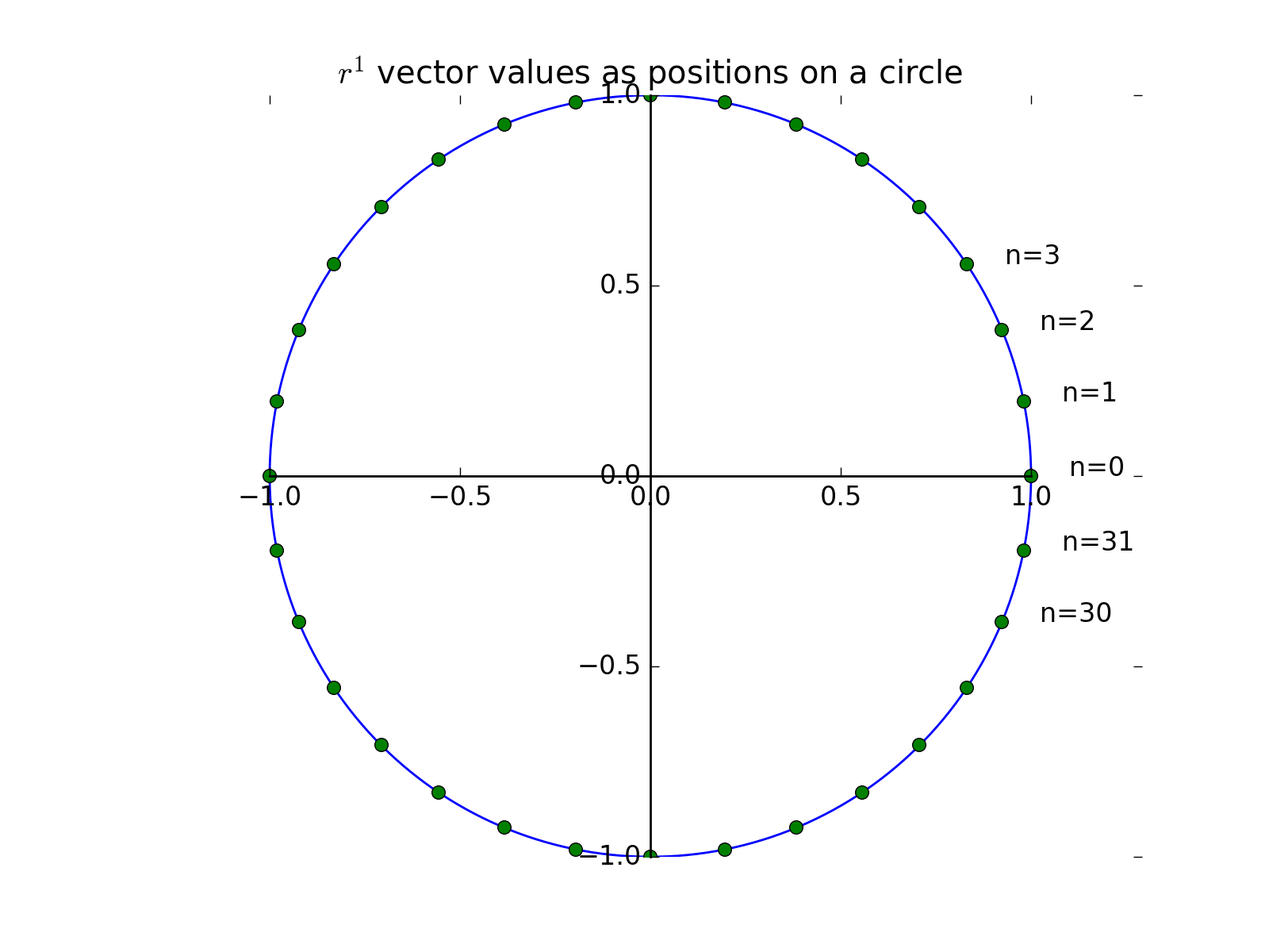
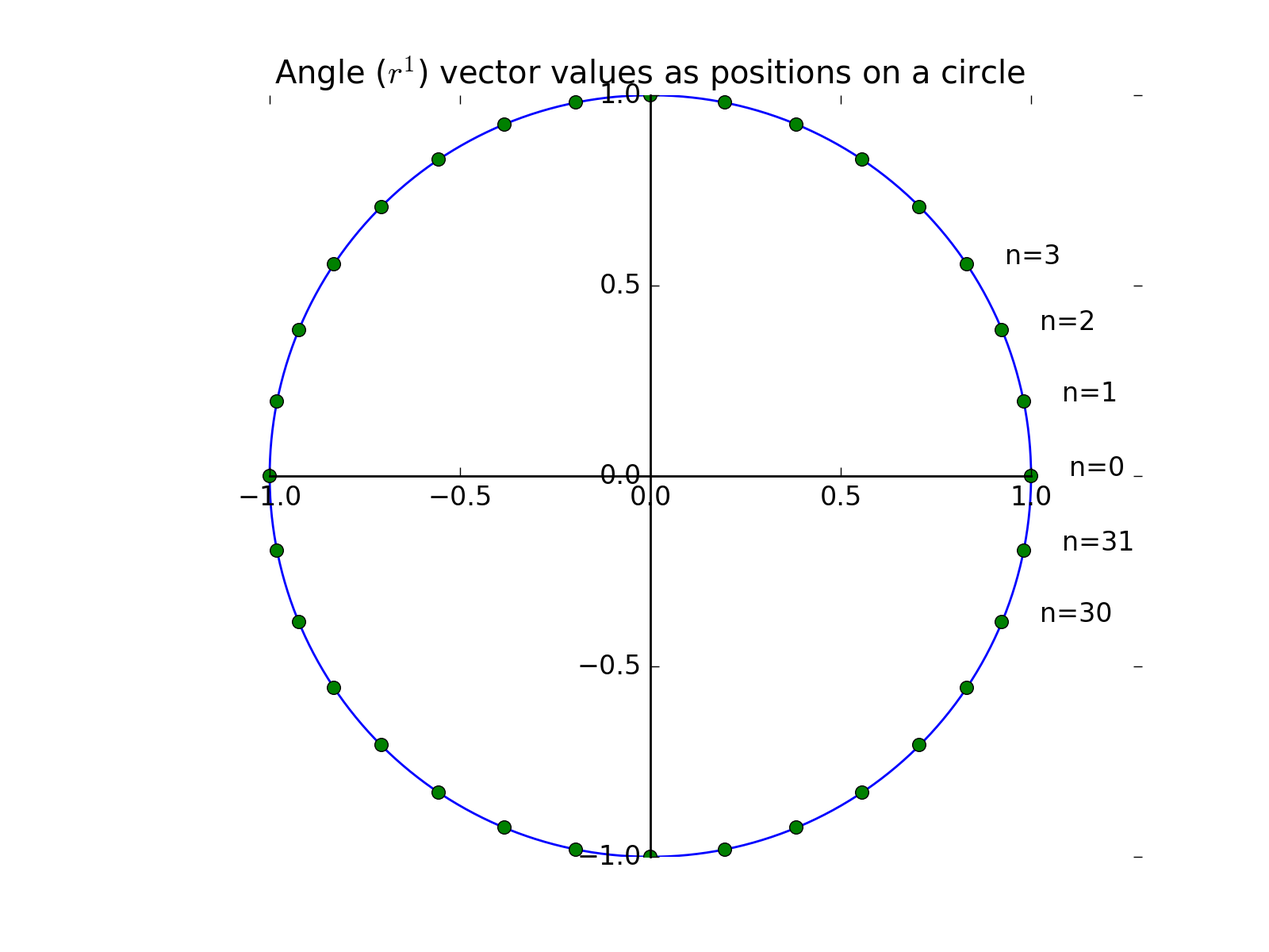
Update documentation

Changed region(s): [[0.2188, 0.0617, 0.8125, 0.0925]]

diff --git a/searchindex.js b/searchindex.js
@@ -1,1 +1,1 @@
-Search.setIndex({envversion:46,filenames:["README","angle_sum","fourier_basis","fourier_intro","fourier_no_ei","fourier_no_ei_orig","index","notation","on_vectors","simple_complex","some_sums","sums_of_cosines"],objects:{},objnames:{},objtypes:{},terms:{"0000j":5,"01j":5,"02j":5,"06j":5,"0755j":[3,4,5],"08j":5,"12j":[5,9],"13j":5,"14j":5,"1596j":[3,4,5],"162j":[3,4,5],"1_n":[3,4],"2268j":[3,4,5],"2329j":[3,4,5],"2593j":[3,4],"28j":5,"2_n":[3,4],"31j":5,"33j":5,"3712j":[3,4,5],"4024j":[3,4,5],"43j":5,"4873j":[3,4,5],"4889j":[3,4,5],"4th":8,"5287j":[3,4,5],"53851287343e":[],"54j":5,"57j":5,"58j":5,"6169j":[3,4,5],"64j":5,"67j":5,"69j":5,"70356074953j":[3,4],"7036j":[3,4,5],"71j":5,"73j":5,"7749j":[3,4,5],"778j":[3,4],"8079j":[3,4,5],"81j":5,"83j":5,"8433j":[3,4,5],"89264601266e":[],"__future__":[3,4,5,11],"case":[2,3,4,5,10,11],"final":[2,5],"float":[3,4],"function":[2,3,4,5],"import":[2,3,4,5,11],"new":[3,4,5,8],"return":[3,4,5,11],"true":[2,3,4,5],"while":5,about:[2,3,4,5],abov:[2,5,11],academi:5,accept:5,across:[],action:5,actual_cos_sum:11,actual_sin_sum:11,add:[3,4],addit:[],after:[2,5],again:5,against:5,aha:[3,4,5],algebra:[],algorithm:[3,4,5],alias:[2,5],allclos:[2,5,11],allow:[3,4,5],almost:[3,4,5,11],along:[3,4,5],alreadi:[3,4,5],also:[1,3,4,5],alwai:[2,3,4,5],amount:5,amplitud:[],ani:[2,3,4,5,7,8],annot:[],anoth:[1,3,4,5],answer:[3,4,11],anticlockwis:1,appar:[2,3,4,5],appli:[2,3,4,5,11],approx:[],arang:[2,3,4,5,11],arbelo:11,arcco:[3,4],arithmet:[2,5,11],around:[1,3,4,5],arrai:[2,3,4,5],arrang:[],assert:[2,5],axi:[2,5],base:8,basic:[1,2,3,4,5,10,11],becaus:[1,2,3,4,5,8,11],becom:11,befor:[2,5],beta:[3,4],between:[1,2,3,4,5],bit:5,black:[2,5],both:[3,4,5,9,11],bottom:[2,5],bring:[],brush:[3,4,5],build:[2,3,4,5],c_0:5,c_1:5,c_2:[],c_3:[],c_cos_shift:5,c_sin_shift:5,c_unshift:5,cah:[3,4,5],calcul:[],call:[2,3,4,5],can:[1,2,3,4,5,7,8,10,11],cancel:[8,11],center:[2,5],center_row:[2,5],cheer:11,circl:[2,3,4,5],clear:11,clearer:5,clearli:5,close:[3,4],coeffici:[3,4,5],collect:0,column:[2,5],come:[3,4,5],common:[3,4,5],compat:[3,4,5],compil:2,complet:[2,3,4,5],complex_x:5,complex_x_again:5,complic:5,compon:[3,4,5],concentr:5,concept:[2,3,4,5],concern:5,confirm:[3,4],confus:[3,4,5],conjug:[2,3,4,5],consid:[2,3,4,5,8,9],constitut:[3,4],construct:[3,4],contain:[5,8],continu:[2,5,11],convent:9,convers:8,convert:[3,4,5],copi:5,correct:[2,5],correl:5,correspond:[],cos_dot:5,cos_g:5,cos_project:5,cos_x:5,cos_x_shift:5,could:[5,10],cours:[2,5],cover:11,current:11,custom:5,cycl:[],data:[],decim:[3,4,5],deep:[3,4],def:[5,11],defin:[],definit:[1,3,4,8],degre:1,denomin:[2,5],depend:[3,4,5],depth:5,deriv:11,detail:5,detect:5,dft_plot:[2,5],dftp:[2,5],dftsketch:5,diag:[2,5],differ:[2,5],difficult:[3,4,5],dimens:8,dimension:8,direct:11,directori:5,disappear:10,distanc:[3,4],divid:8,divis:[3,4,5,11],doe:5,don:[3,4,5],done:[3,4],download:5,drop:5,dtype:5,due:5,each:[2,3,4,5,11],easi:[3,4,5],edit:8,edu:[],effect:[2,5],engin:9,enterpris:[3,4,5],entir:[3,4,5],entri:[2,5],equal:[2,5,7],equat:[2,3,4,5],equival:5,euler:[3,4,5],evergreen:[],everi:5,everywher:[2,5],exactli:[2,5],exampl:[2,3,4,5,7,8,9,10],except:[2,5],expect:[3,4],explain:[3,4,5],explan:[3,4,5],explor:5,exponenti:[3,4,5],express:[2,3,4,5],fact:[2,3,4,5,11],fairli:[3,4,5],familiar:5,fast:[3,4,5],featur:[3,4,5],fig:[2,5],figsiz:[2,5],fill:[2,5],find:[3,4,5],finish:11,flip:[2,3,4,5],follow:[3,4,5,9,11],fontsiz:[2,5],footnot:[],form:[2,3,4,5,8],format:5,formula:[2,3,4,5,11],found:2,four:[5,10],fraction:[3,4],frequenc:[],fresh:5,from:[1,2,8,10,11],full_circl:[],full_i:[],full_x:[],further:[3,4,5],gca:[2,5],gener:[2,3,4,5,8],get:[1,2,3,4,5,11],gilbert:8,give:[1,2,3,4,5,8,11],given:[2,3,4,5],goe:[3,4,5],grai:5,graphic:5,grayscal:[2,5],greitzer:11,greitzner:11,grid:[2,5],half:[2,5],hand:[5,8],happen:[3,4,5],have:[1,2,3,4,5,8,10],hear:[2,3,4,5],heavi:[3,4,5],help:[],here:[2,3,4,5],hidden:[],highli:5,highlight:5,hire:[2,3,4,5],hold:[2,5],horizont:[2,5],http:[],hypotenus:8,idea:[3,4,5],ident:[2,5,10,11],ifft:[3,4,5],imag:[],imagin:[3,4,5],includ:[2,5],increas:[],index:[2,3,4,5],indic:[5,10],individu:[2,5],inform:5,instead:[2,5],integ:[2,5,11],interest:5,intuit:[3,4,5],involv:[3,4,5],isn:[3,4],iter:11,itself:[2,5,8],journei:[3,4],just:[2,5],kei:[3,4,5],khan:5,kind:[2,5],knapp:11,know:5,label:[3,4,5],last:11,later:[2,5,11],lead:[2,5],leav:5,left:[5,8,11],legend:[3,4,5],len:[2,4,5],length:1,less:[2,5],let:[1,2,3,4,5,8,9,11],light:5,like:[2,5],line:[1,2,5],linear:8,link:[3,4,5],linspac:[],list:10,logic:[2,3,4,5,9],look:[2,3,4,5],lower:[2,5],loyola:[],magazin:11,mai:[5,10],make:[3,4,5,8],mani:11,match:[2,5],math:[3,4,5],mathbf:[2,5],matplotlib:[2,3,4,5],mayb:5,mean:[2,3,4,5,7],michael:11,mid:5,might:[2,3,4,5],mind:5,minu:5,modul:5,moment:5,more:[],most:5,mostli:5,mpknapp:[],multipl:[],multipli:9,must:5,nearli:[],need:[3,4,5],neg:[2,5],next:[2,5],nkd:[],non:5,none:5,notat:[],note:[2,5],notic:[2,3,4,5],now:[2,3,4,5,9,11],numer:[],numpi:[2,3,4,5,11],nyquist:[2,5],observ:[3,4,5],obviou:[2,5,10],obvious:[],offset:5,often:9,one_cycl:[2,5],onli:[2,3,4,5,11],onto:5,opposit:[3,4,11],order:[8,11],origin:[1,3,4,5],orthogon:[2,5],other:[2,3,4,5,7],otherwis:5,our:[2,3,4,5,9],out:[3,4,5,11],output:[],over:[],packag:[3,4,5],page:[3,4,5,8,11],pair:[3,4,5],paper:[],particular:[3,4,5],pattern:[3,4,5],pdf:[2,3,4,5],peak:[2,5],pearson:5,peopl:[3,4,5],perfectli:5,person:[3,4,5],pictur:1,place:[3,4,5],plai:11,plot:[2,3,4,5],plot_cs_row:[2,5],plt:[2,3,4,5],png:[2,3,4,5],point:[5,8],posit:[2,5,11],power:[3,4,5],practic:5,precis:[2,3,4,5],predict:[3,4,5],predicted_cos_sum:11,predicted_sin_sum:11,present:5,previou:11,principl:5,print:[3,4,5,11],print_funct:[3,4,5,11],process:[3,4,5],progress:[2,5,11],proj_onto_c1:5,proj_onto_s1:5,proport:5,put:[3,4],pyplot:[2,3,4,5],pythagora:[3,4,5,8],python:[3,4,5,9],pythonagora:[],quietli:10,r_1:[],r_2:[],r_3:[],r_x:[],r_y:[],radian:[3,4],random:5,rang:[2,5],rather:[3,4,5],read:7,rearrang:11,reason:[5,11],recalcul:5,recast:[3,4,5],recommend:5,reconstruct:[],refer:[3,4,5],refresh:[],regardless:[2,5],rel:[2,5],relationship:[2,5],relev:5,remain:5,rememb:[1,2,3,4,5,9],rephras:5,replac:[],repres:[2,3,4,5],represent:5,respect:5,rest:5,result:[1,2,3,4,5,8],reveal:[3,4],rid:11,right:[5,8,11],role:5,root:[7,8],rotat:[1,3,4,5],round:[3,4],run:[3,4,5],s_1:5,s_2:[],s_3:[],safe:11,sai:[1,3,4,5,8,9,10],said:[3,4,5],same:[2,3,4,5,9,11],sampl:[],samuel:11,saw:[],scalar:[],scale:[],scale_arrai:[2,5],second:[9,11],section:5,see:[1,2,3,4,5,7,8],seen:[3,4,5],sequenc:[2,5,8],seri:[2,3,5,10,11],set:[],set_color:[],set_posit:[],set_printopt:[2,3,4,5],set_smart_bound:[],set_titl:[2,5],set_xlim:5,set_ylim:5,shape:5,share:[3,4,5],shift:[],show:[2,3,4,5],show_arrai:[2,5],shown:5,side:[8,11],sign:[2,3,4,5],similar:[3,4,5],simplic:5,simplifi:[3,4,5],sin:[2,3,4,5,11],sin_dot:5,sin_g:5,sin_project:5,situat:8,sketch:5,small_n:5,soh:[3,4,5],solv:[2,5,11],some:1,soon:[3,4,5],sort:[3,4,5],space:[3,4,5],spatial:[3,4,5],special:5,spine:[],sqrt:[3,4],squar:[2,5,7,8],standard:[3,4,5],step:11,strang:8,strength:[2,5],subplot:[2,5],subscript:[3,4,5,10],substitut:[3,4],success:5,summat:[],suppress:[2,3,4,5],suptitl:[2,5],symbol:10,symmetr:[2,5],t_1:5,t_k:[2,5],take:[2,5,7],talk:5,telescop:11,tell:[2,3,4,5],tempor:[3,4,5],term:[2,3,4,5,8,11],test:[5,10],than:[2,3,4,5],thei:[2,5,10],them:[3,4,5],themselv:[2,5],theorem:[],therefor:[1,2,3,4,5,9,11],thi:[1,2,3,4,5,8,10,11],thing:[0,2,3,4,5,7],think:[3,4,5],three:[7,8],through:[2,3,4,5,10],thu:[1,2,5],tight_layout:5,time:[3,4,5],titl:[2,5],to_4dp:5,toa:[3,4,5],took:[2,5],tool:[3,4,5],top:[2,5],transpos:[2,5],tri:[3,4,5],triangl:[1,8],trigonometri:[1,2,3,4,5],trough:[2,5],turn:[3,4,5],tutori:0,two:[],understand:5,unfortun:[3,4,5],unique_c:5,unique_ss:5,unit:[],unless:[2,5],unpack:5,unshift:[3,4,5],upco:4,valu:7,vari:5,variabl:5,variou:0,vec:[3,4],vec_c_1:[3,4],vec_c_2:[3,4],vec_c_3:[],vec_n:[3,4],vec_on:[3,4],vec_r_1:[3,4],vec_r_2:[3,4],vec_r_3:[],vec_s_1:[3,4],vec_s_2:[3,4],vec_s_3:[],vec_v:[3,4],vector:1,veri:[3,4,5],visual:5,vstack:5,w_again:5,wai:[3,4,5],want:[3,4,5],wave:[2,5],were:[3,4],what:[3,4,5],when:[2,3,4,5,8,10,11],where:[2,3,4,5,11],which:[3,4,5,10],white:[2,5],whole:[3,4,5],why:[],width:5,work:[3,4,5],would:5,write:[2,3,4,5,8,9,10,11],written:[2,5,9],www:[],x_1:[3,4],x_again:5,x_back:[3,4,5],x_c:5,x_c_real:5,x_real:5,xlabel:[3,4,5],xlim:5,xytext:[],ylabel:[3,4],you:[3,4,5,10],yourself:5,zero:[2,3,4,5]},titles:["Teaching repo","The angle sum rule","The Fourier basis","Fourier without the ei","Fourier without the ei","Fourier without the ei","Tutorials on imaging, computing and mathematics","Notation","Vectors and dot products","Refresher on complex numbers","Some algebra with summation","Sum of sines and cosines"],titleterms:{across:[3,4],actual:[3,4,5],addit:[8,10],algebra:10,all:5,amplitud:[3,4],angl:1,back:5,basi:[2,5],bring:[3,4],calcul:[3,4],check:11,code:[3,4,5],commut:8,complex:[5,9],comput:6,configur:[3,4,5],constant:[5,10],correspond:[3,4],cosin:[2,3,4,5,11],cycl:[3,4],data:2,defin:7,dft:[2,3,4,5],discret:[3,4,5],displai:[2,5],distribut:8,dot:[2,5,8],element:5,factor:[3,4],fft:[3,4,5],first:[3,4,5],fit:5,forward:5,fourier:[2,3,4,5],frequenc:[3,4],from:[3,4],hard:[3,4,5],how:[3,4,5],imag:6,imaginari:5,impli:7,input:5,insid:10,introduc:5,introduct:[3,4,5],invers:5,length:[2,3,4,5,8],librari:[2,3,4,5],load:[2,3,4,5],mathemat:[3,4,5,6],matric:[2,5],matrix:[2,5],membership:7,mirror:[2,5],more:10,multipl:8,multipli:10,notat:[3,4,7],number:[3,4,5,9],numer:11,output:[3,4],over:8,part:5,perpendicular:8,phase:[3,4,5],plai:[3,4],product:[2,5,8],project:5,proof:[1,2,5,11],properti:[2,5,8],read:10,real:5,reconstruct:[3,4],refresh:9,repo:0,rewrit:[2,3,4,5],row:[2,5],rule:1,sampl:[3,4],scalar:8,scale:[3,4,8],scrub:5,second:[3,4],set:7,shift:[3,4],signal:5,sine:[2,3,4,5,11],singl:5,sinusoid:[3,4],some:[2,3,4,5,10],start:[3,4,5],sum:[1,3,4,10,11],summat:10,symmetri:[2,5],teach:0,theorem:11,tradit:[3,4],transform:[3,4,5],tutori:6,two:8,unit:8,valu:[3,4,10],vector:[3,4,5,7,8],why:[3,4],without:[3,4,5]}})
+Search.setIndex({envversion:46,filenames:["README","angle_sum","fourier_basis","fourier_intro","fourier_no_ei","fourier_no_ei_orig","index","notation","on_vectors","simple_complex","some_sums","sums_of_cosines"],objects:{},objnames:{},objtypes:{},terms:{"0000j":5,"01j":5,"02j":5,"06j":5,"0755j":[3,4,5],"08j":5,"12j":[5,9],"13j":5,"14j":5,"1596j":[3,4,5],"162j":[3,4,5],"1_n":[3,4],"2268j":[3,4,5],"2329j":[3,4,5],"2593j":[3,4],"28j":5,"2_n":[3,4],"31j":5,"33j":5,"3712j":[3,4,5],"4024j":[3,4,5],"43j":5,"4873j":[3,4,5],"4889j":[3,4,5],"4th":8,"5287j":[3,4,5],"53851287343e":[],"54j":5,"57j":5,"58j":5,"6169j":[3,4,5],"64j":5,"67j":5,"69j":5,"70356074953j":[3,4],"7036j":[3,4,5],"71j":5,"73j":5,"7749j":[3,4,5],"778j":[3,4],"8079j":[3,4,5],"81j":5,"83j":5,"8433j":[3,4,5],"89264601266e":[],"__future__":[3,4,5,11],"case":[2,3,4,5,10,11],"final":[2,5],"float":[3,4],"function":[2,3,4,5],"import":[2,3,4,5,11],"new":[3,4,5,8],"return":[3,4,5,11],"true":[2,3,4,5],"while":5,about:[2,3,4,5],abov:[2,5,11],academi:5,accept:5,across:[],action:5,actual_cos_sum:11,actual_sin_sum:11,add:[3,4],addit:[],after:[2,5],again:5,against:5,aha:[3,4,5],algebra:[],algorithm:[3,4,5],alias:[2,5],allclos:[2,5,11],allow:[3,4,5],almost:[3,4,5,11],along:[3,4,5],alreadi:[3,4,5],also:[1,3,4,5],alwai:[2,3,4,5],amount:5,amplitud:[],ani:[2,3,4,5,7,8],annot:[],anoth:[1,3,4,5],answer:[3,4,11],anticlockwis:1,appar:[2,3,4,5],appli:[2,3,4,5,11],approx:[],arang:[2,3,4,5,11],arbelo:11,arcco:[3,4],arithmet:[2,5,11],around:[1,3,4,5],arrai:[2,3,4,5],arrang:[],assert:[2,5],axi:[2,5],base:8,basic:[1,2,3,4,5,10,11],becaus:[1,2,3,4,5,8,11],becom:11,befor:[2,5],beta:[3,4],between:[1,2,3,4,5],bit:5,black:[2,5],both:[3,4,5,9,11],bottom:[2,5],bring:[],brush:[3,4,5],build:[2,3,4,5],c_0:5,c_1:5,c_2:[],c_3:[],c_cos_shift:5,c_sin_shift:5,c_unshift:5,cah:[3,4,5],calcul:[],call:[2,3,4,5],can:[1,2,3,4,5,7,8,10,11],cancel:[8,11],center:[2,5],center_row:[2,5],cheer:11,circl:[2,3,4,5],clear:11,clearer:5,clearli:5,close:[3,4],coeffici:[3,4,5],collect:0,column:[2,5],come:[3,4,5],common:[3,4,5],compat:[3,4,5],compil:2,complet:[2,3,4,5],complex_x:5,complex_x_again:5,complic:5,compon:[3,4,5],concentr:5,concept:[2,3,4,5],concern:5,confirm:[3,4],confus:[3,4,5],conjug:[2,3,4,5],consid:[2,3,4,5,8,9],constitut:[3,4],construct:[3,4],contain:[5,8],continu:[2,5,11],convent:9,convers:8,convert:[3,4,5],copi:5,correct:[2,5],correl:5,correspond:[],cos_dot:5,cos_g:5,cos_project:5,cos_x:5,cos_x_shift:5,could:[5,10],cours:[2,5],cover:11,current:11,custom:5,cycl:[],data:[],decim:[3,4,5],deep:[3,4],def:[5,11],defin:[],definit:[1,3,4,8],degre:1,denomin:[2,5],depend:[3,4,5],depth:5,deriv:11,detail:5,detect:5,dft_plot:[2,5],dftp:[2,5],dftsketch:5,diag:[2,5],differ:[2,5],difficult:[3,4,5],dimens:8,dimension:8,direct:11,directori:5,disappear:10,distanc:[3,4],divid:8,divis:[3,4,5,11],doe:5,don:[3,4,5],done:[3,4],download:5,drop:5,dtype:5,due:5,each:[2,3,4,5,11],easi:[3,4,5],edit:8,edu:[],effect:[2,5],engin:9,enterpris:[3,4,5],entir:[3,4,5],entri:[2,5],equal:[2,5,7],equat:[2,3,4,5],equival:5,euler:[3,4,5],evergreen:[],everi:5,everywher:[2,5],exactli:[2,5],exampl:[2,3,4,5,7,8,9,10],except:[2,5],expect:[3,4],explain:[3,4,5],explan:[3,4,5],explor:5,exponenti:[3,4,5],express:[2,3,4,5],fact:[2,3,4,5,11],fairli:[3,4,5],familiar:5,fast:[3,4,5],featur:[3,4,5],fig:[2,5],figsiz:[2,5],fill:[2,5],find:[3,4,5],finish:11,flip:[2,3,4,5],follow:[3,4,5,9,11],fontsiz:[2,5],footnot:[],form:[2,3,4,5,8],format:5,formula:[2,3,4,5,11],found:2,four:[5,10],fraction:[3,4],frequenc:[],fresh:5,from:[1,2,10,11],full_circl:[],full_i:[],full_x:[],further:[3,4,5],gca:[2,5],gener:[2,3,4,5,8],get:[1,2,3,4,5,11],gilbert:8,give:[1,2,3,4,5,8,11],given:[2,3,4,5],goe:[3,4,5],grai:5,graphic:5,grayscal:[2,5],greitzer:11,greitzner:11,grid:[2,5],half:[2,5],hand:[5,8],happen:[3,4,5],have:[1,2,3,4,5,8,10],hear:[2,3,4,5],heavi:[3,4,5],help:[],here:[2,3,4,5],hidden:[],highli:5,highlight:5,hire:[2,3,4,5],hold:[2,5],horizont:[2,5],http:[],hypotenus:8,idea:[3,4,5],ident:[2,5,10,11],ifft:[3,4,5],imag:[],imagin:[3,4,5],includ:[2,5],increas:[],index:[2,3,4,5],indic:[5,10],individu:[2,5],inform:5,instead:[2,5],integ:[2,5,11],interest:5,intuit:[3,4,5],involv:[3,4,5],isn:[3,4],iter:11,itself:[2,5,8],journei:[3,4],just:[2,5],kei:[3,4,5],khan:5,kind:[2,5],knapp:11,know:5,label:[3,4,5],last:11,later:[2,5,11],lead:[2,5],leav:5,left:[5,8,11],legend:[3,4,5],len:[2,4,5],length:1,less:[2,5],let:[1,2,3,4,5,8,9,11],light:5,like:[2,5],line:[1,2,5],linear:8,link:[3,4,5],linspac:[],list:10,logic:[2,3,4,5,9],look:[2,3,4,5],lower:[2,5],loyola:[],magazin:11,mai:[5,10],make:[3,4,5,8],mani:11,match:[2,5],math:[3,4,5],mathbf:[2,5],matplotlib:[2,3,4,5],mayb:5,mean:[2,3,4,5,7],michael:11,mid:5,might:[2,3,4,5],mind:5,minu:5,modul:5,moment:5,more:[],most:5,mostli:5,mpknapp:[],multipl:[],multipli:9,must:5,nearli:[],need:[3,4,5],neg:[2,5],next:[2,5],nkd:[],non:5,none:5,notat:[],note:[2,5],notic:[2,3,4,5],now:[2,3,4,5,9,11],numer:[],numpi:[2,3,4,5,11],nyquist:[2,5],observ:[3,4,5],obviou:[2,5,10],obvious:[],offset:5,often:9,one_cycl:[2,5],onli:[2,3,4,5,11],onto:5,opposit:[3,4,11],order:[8,11],origin:[1,3,4,5],orthogon:[2,5],other:[2,3,4,5,7],otherwis:5,our:[2,3,4,5,9],out:[3,4,5,11],output:[],over:[],packag:[3,4,5],page:[3,4,5,8,11],pair:[3,4,5],paper:[],particular:[3,4,5],pattern:[3,4,5],pdf:[2,3,4,5],peak:[2,5],pearson:5,peopl:[3,4,5],perfectli:5,person:[3,4,5],pictur:1,place:[3,4,5],plai:11,plot:[2,3,4,5],plot_cs_row:[2,5],plt:[2,3,4,5],png:[2,3,4,5],point:[5,8],posit:[2,5,11],power:[3,4,5],practic:5,precis:[2,3,4,5],predict:[3,4,5],predicted_cos_sum:11,predicted_sin_sum:11,present:5,previou:11,principl:5,print:[3,4,5,11],print_funct:[3,4,5,11],process:[3,4,5],progress:[2,5,11],proj_onto_c1:5,proj_onto_s1:5,proport:5,put:[3,4],pyplot:[2,3,4,5],pythagora:[3,4,5,8],python:[3,4,5,9],pythonagora:[],quietli:10,r_1:[],r_2:[],r_3:[],r_x:[],r_y:[],radian:[3,4],random:5,rang:[2,5],rather:[3,4,5],read:7,rearrang:11,reason:[5,11],recalcul:5,recast:[3,4,5],recommend:5,reconstruct:[],refer:[3,4,5],refresh:[],regardless:[2,5],rel:[2,5],relationship:[2,5],relev:5,remain:5,rememb:[1,2,3,4,5,9],rephras:5,replac:[],repres:[2,3,4,5],represent:5,respect:5,rest:5,result:[1,2,3,4,5,8],reveal:[3,4],rid:11,right:[5,8,11],role:5,root:[7,8],rotat:[1,3,4,5],round:[3,4],run:[3,4,5],s_1:5,s_2:[],s_3:[],safe:11,sai:[1,3,4,5,8,9,10],said:[3,4,5],same:[2,3,4,5,9,11],sampl:[],samuel:11,saw:[],scalar:[],scale:[],scale_arrai:[2,5],second:[9,11],section:5,see:[1,2,3,4,5,7,8],seen:[3,4,5],sequenc:[2,5,8],seri:[2,3,5,10,11],set:[],set_color:[],set_posit:[],set_printopt:[2,3,4,5],set_smart_bound:[],set_titl:[2,5],set_xlim:5,set_ylim:5,shape:5,share:[3,4,5],shift:[],show:[2,3,4,5],show_arrai:[2,5],shown:5,side:[8,11],sign:[2,3,4,5],similar:[3,4,5],simplic:5,simplifi:[3,4,5],sin:[2,3,4,5,11],sin_dot:5,sin_g:5,sin_project:5,situat:8,sketch:5,small_n:5,soh:[3,4,5],solv:[2,5,11],some:1,soon:[3,4,5],sort:[3,4,5],space:[3,4,5],spatial:[3,4,5],special:5,spine:[],sqrt:[3,4],squar:[2,5,7,8],standard:[3,4,5],step:11,strang:8,strength:[2,5],subplot:[2,5],subscript:[3,4,5,10],substitut:[3,4],success:5,summat:[],suppress:[2,3,4,5],suptitl:[2,5],symbol:10,symmetr:[2,5],t_1:5,t_k:[2,5],take:[2,5,7],talk:5,telescop:11,tell:[2,3,4,5],tempor:[3,4,5],term:[2,3,4,5,8,11],test:[5,10],than:[2,3,4,5],thei:[2,5,10],them:[3,4,5],themselv:[2,5],theorem:[],therefor:[1,2,3,4,5,9,11],thi:[1,2,3,4,5,8,10,11],thing:[0,2,3,4,5,7],think:[3,4,5],three:[7,8],through:[2,3,4,5,10],thu:[1,2,5],tight_layout:5,time:[3,4,5],titl:[2,5],to_4dp:5,toa:[3,4,5],took:[2,5],tool:[3,4,5],top:[2,5],transpos:[2,5],tri:[3,4,5],triangl:[1,8],trigonometri:[1,2,3,4,5],trough:[2,5],turn:[3,4,5],tutori:0,two:[],understand:5,unfortun:[3,4,5],unique_c:5,unique_ss:5,unit:[],unless:[2,5],unpack:5,unshift:[3,4,5],upco:4,valu:7,vari:5,variabl:5,variou:0,vec:[3,4],vec_c_1:[3,4],vec_c_2:[3,4],vec_c_3:[],vec_n:[3,4],vec_on:[3,4],vec_r_1:[3,4],vec_r_2:[3,4],vec_r_3:[],vec_s_1:[3,4],vec_s_2:[3,4],vec_s_3:[],vec_v:[3,4],vector:1,veri:[3,4,5],visual:5,vstack:5,w_again:5,wai:[3,4,5],want:[3,4,5],wave:[2,5],were:[3,4],what:[3,4,5],when:[2,3,4,5,8,10,11],where:[2,3,4,5,11],which:[3,4,5,10],white:[2,5],whole:[3,5],why:[],width:5,work:[3,4,5],would:5,write:[2,3,4,5,8,9,10,11],written:[2,5,9],www:[],x_1:[3,4],x_again:5,x_back:[3,4,5],x_c:5,x_c_real:5,x_real:5,xlabel:[3,4,5],xlim:5,xytext:[],ylabel:[3,4],you:[3,4,5,10],yourself:5,zero:[2,3,4,5]},titles:["Teaching repo","The angle sum rule","The Fourier basis","Fourier without the ei","Fourier without the ei","Fourier without the ei","Tutorials on imaging, computing and mathematics","Notation","Vectors and dot products","Refresher on complex numbers","Some algebra with summation","Sum of sines and cosines"],titleterms:{across:[3,4],actual:[3,4,5],addit:[8,10],algebra:10,all:5,amplitud:[3,4],angl:1,back:5,basi:[2,5],bring:[3,4],calcul:[3,4],check:11,code:[3,4,5],commut:8,complex:[5,9],comput:6,configur:[3,4,5],constant:[5,10],correspond:[3,4],cosin:[2,3,4,5,11],cycl:[3,4],data:2,defin:7,dft:[2,3,4,5],discret:[3,4,5],displai:[2,5],distribut:8,dot:[2,5,8],element:5,factor:[3,4],fft:[3,4,5],first:[3,4,5],fit:5,forward:5,fourier:[2,3,4,5],frequenc:[3,4],from:[3,4],hard:[3,4,5],how:[3,4,5],imag:6,imaginari:5,impli:7,input:5,insid:10,introduc:5,introduct:[3,4,5],invers:5,length:[2,3,5,8],librari:[2,3,4,5],load:[2,3,4,5],mathemat:[3,4,5,6],matric:[2,5],matrix:[2,5],membership:7,mirror:[2,5],more:10,multipl:8,multipli:10,notat:[3,4,7],number:[3,4,5,9],numer:11,output:[3,4],over:8,part:5,perpendicular:8,phase:[3,4,5],plai:[3,4],product:[2,5,8],project:5,proof:[1,2,5,11],properti:[2,5,8],read:10,real:5,reconstruct:[3,4],refresh:9,repo:0,rewrit:[2,3,4,5],row:[2,5],rule:1,sampl:[3,4],scalar:8,scale:[3,4,8],scrub:5,second:[3,4],set:7,shift:[3,4],signal:5,sine:[2,3,4,5,11],singl:5,sinusoid:[3,4],some:[2,3,4,5,10],start:[3,4,5],sum:[1,3,4,10,11],summat:10,symmetri:[2,5],teach:0,theorem:11,tradit:[3,4],transform:[3,4,5],tutori:6,two:8,unit:8,valu:[3,4,10],vector:[3,4,5,7,8],why:[3,4],without:[3,4,5]}})

diff --git a/fourier_no_ei.html b/fourier_no_ei.html
@@ -243,7 +243,9 @@ i \sum_{n=0}^{N-1} x_n \sin(k n D)\]</div>
 - i \sum_{n=0}^{N-1} x_n \sin(r^k_n)\]</div>
 <p>where:</p>
 <div class="math">
-\[\vec{r^k} \triangleq \left[ 0 k D, 1 k D, \ldots, (N - 1) k D \right]\]</div><p>Substituting the value of <span class="math">\(D\)</span> (equation <a href="#equation-D">(3)</a>):</p>
+\[\vec{r^k} \triangleq \left[ 0 k D, 1 k D, \ldots, (N - 1) k D \right]\]</div><p>Call <span class="math">\(\vec{r^k}\)</span> the <em>angle vector</em> for <span class="math">\(k\)</span>.  This vector depend only on <span class="math">\(k
+and N\)</span>.</p>
+<p>Substituting the value of <span class="math">\(D\)</span> (equation <a href="#equation-D">(3)</a>):</p>
 <div class="math">
 \[\vec{r^k} = [ k 2 \pi \frac{0}{N}, k 2 \pi \frac{1}{N}, \ldots,
 k 2 \pi \frac{N-1}{N}]\]</div>
@@ -253,7 +255,7 @@ k 2 \pi \frac{N-1}{N}]\]</div>
 \cos(r^k_{N-1} \right] \\
 \vec{s^k} \triangleq \left[ \sin(r^k_0), \sin(r^k_1), \ldots
 \sin(r^k_{N-1} \right]\end{split}\]</div>
-<p>We now have:</p>
+<p>We have:</p>
 <div class="math">
 \[X_k = \sum_{n=0}^{N-1} x_n c^k_n
 - i \sum_{n=0}^{N-1} x_n s^k_n\]</div>
@@ -262,11 +264,11 @@ forward DFT as:</p>
 <div class="math">
 \[X_k = \vec{x} \cdot \vec{c^k} - i \vec{x} \cdot \vec{s^k}\]</div>
 </div>
-<div class="section" id="frequency-as-cycles-across-the-sample-length">
-<h3>Frequency as cycles across the sample length<a class="headerlink" href="#frequency-as-cycles-across-the-sample-length" title="Permalink to this headline">¶</a></h3>
+<div class="section" id="frequency-as-cycles-across-the-sample-vector">
+<h3>Frequency as cycles across the sample vector<a class="headerlink" href="#frequency-as-cycles-across-the-sample-vector" title="Permalink to this headline">¶</a></h3>
 <p>The key to the frequencies in the DFT are in the <span class="math">\(n k D = k 2 \pi
 \frac{n}{N}\)</span> values that we have put into <span class="math">\(\vec{r^k}\)</span>.</p>
-<p>The <span class="math">\(k\)</span> in <span class="math">\(\vec{r^k}\)</span> is the number of cycles across the length of <span class="math">\(\vec{x}\)</span>.</p>
+<p>The <span class="math">\(k\)</span> in <span class="math">\(\vec{r^k}\)</span> is the number of cycles across all <span class="math">\(N\)</span> values of <span class="math">\(\vec{x}\)</span>.</p>
 <p>For example, consider the case of <span class="math">\(k = 1\)</span>:</p>
 <div class="math">
 \[\vec{r^1} = \left[ 2 \pi \frac{0}{N}, 2 \pi \frac{1}{N},
@@ -282,10 +284,10 @@ forward DFT as:</p>
 <span class="go">        5.4978,  5.6941,  5.8905,  6.0868])</span>
 </pre></div>
 </div>
-<p>The values <span class="math">\(\frac{0}{N}, \frac{1}{N}, \ldots \frac{N-1}{N}\)</span> are fractions of the whole
-sample length <span class="math">\(N\)</span>, running from 0 to close to 1.  Now multiplied by <span class="math">\(2 \pi\)</span>,
-the values run from 0 to close to <span class="math">\(2 \pi\)</span> and therefore give the distance
-round a circle.</p>
+<p>The values <span class="math">\(\frac{0}{N}, \frac{1}{N}, \ldots \frac{N-1}{N}\)</span> are fractions of
+the number of samples <span class="math">\(N\)</span>, running from 0 to close to 1.  Now multiplied by <span class="math">\(2
+\pi\)</span>, the values run from 0 to close to <span class="math">\(2 \pi\)</span> and therefore give the
+distance round a circle.</p>
 <p>(<a class="reference external" href=".//fourier_no_ei-9.png">png</a>, <a class="reference external" href=".//fourier_no_ei-9.hires.png">hires.png</a>, <a class="reference external" href=".//fourier_no_ei-9.pdf">pdf</a>)</p>
 <div class="figure">
 <img alt="_images/fourier_no_ei-9.png" src="_images/fourier_no_ei-9.png" />
@@ -309,7 +311,7 @@ round a circle.</p>
 <div class="figure">
 <img alt="_images/fourier_no_ei-10.png" src="_images/fourier_no_ei-10.png" />
 </div>
-<p>$k = 2 gives 2 samples across the cycle length:</p>
+<p>$k = 2 gives 2 cycles across the N values:</p>
 <div class="highlight-python"><div class="highlight"><pre><span class="gp">&gt;&gt;&gt; </span><span class="n">vec_r_2</span> <span class="o">=</span> <span class="n">vec_r_1</span> <span class="o">*</span> <span class="mi">2</span>
 <span class="gp">&gt;&gt;&gt; </span><span class="n">vec_c_2</span> <span class="o">=</span> <span class="n">np</span><span class="o">.</span><span class="n">cos</span><span class="p">(</span><span class="n">vec_r_2</span><span class="p">)</span>
 <span class="gp">&gt;&gt;&gt; </span><span class="n">vec_s_2</span> <span class="o">=</span> <span class="n">np</span><span class="o">.</span><span class="n">sin</span><span class="p">(</span><span class="n">vec_r_2</span><span class="p">)</span>
@@ -398,6 +400,8 @@ revealing.</p>
 <span class="math">\(\vec{c^k}, \vec{s^k}\)</span> vectors that, for all <span class="math">\(k, N\)</span>:</p>
 <div class="math">
 \[\vec{c^k} \cdot \vec{s^k} = 0\]</div>
+<p>Remember from <a class="reference internal" href="on_vectors.html#vector-length"><span>Vector length</span></a> that we can write <span class="math">\(\vec{w} \cdot \vec{w}\)</span>
+as <span class="math">\(\VL{w}^2\)</span></p>
 <p>So:</p>
 <div class="math">
 \[V_1 = \VL{c^1}^2\]</div>
@@ -466,7 +470,9 @@ generally <span class="math">\(\vec{c_p} = \vec{c_{N-p}}\)</span> for <span clas
 \[\cos(\alpha + \beta) = \cos \alpha \cos \beta - \sin \alpha \sin \beta\]</div>
 <p>So:</p>
 <div class="math">
-\[\vec{v} = \left [
+\[\vec{v} = \left [\cos(r^1_0 + \beta), \cos(r^1_1 + \beta), \ldots,
+\cos(r^1_{N-1} + \beta) \right] \\
+= \left [
 \cos(r^1_0) \cos(\beta) - \sin(r^1_0) \sin(\beta),
 \cos(r^1_1) \cos(\beta) - \sin(r^1_1) \sin(\beta),
 \ldots,
@@ -596,7 +602,7 @@ functions:</p>
 <li><a class="reference internal" href="#why-rewrite-without">Why rewrite without <span class="math">\(e^i\)</span>?</a></li>
 <li><a class="reference internal" href="#how-to-rewrite-without">How to rewrite without <span class="math">\(e^i\)</span></a></li>
 <li><a class="reference internal" href="#rewriting-the-dft-with-vectors">Rewriting the DFT with vectors</a></li>
-<li><a class="reference internal" href="#frequency-as-cycles-across-the-sample-length">Frequency as cycles across the sample length</a></li>
+<li><a class="reference internal" href="#frequency-as-cycles-across-the-sample-vector">Frequency as cycles across the sample vector</a></li>
 </ul>
 </li>
 <li><a class="reference internal" href="#calculating-the-dft-with-vectors">Calculating the DFT with vectors</a><ul>

diff --git a/on_vectors.html b/on_vectors.html
@@ -70,7 +70,7 @@
 \[\vec{v} \cdot \vec{w} \triangleq \Sigma_{i=1}^n v_i w_i\]</div>
 </div>
 <div class="section" id="vector-length">
-<h2>Vector length<a class="headerlink" href="#vector-length" title="Permalink to this headline">¶</a></h2>
+<span id="id2"></span><h2>Vector length<a class="headerlink" href="#vector-length" title="Permalink to this headline">¶</a></h2>
 <p>We write the <em>length</em> of a vector <span class="math">\(\vec{v}\)</span> as <span class="math">\(\VL{v}\)</span>:</p>
 <div class="math">
 \[\VL{v} \triangleq \sqrt{ \Sigma v_i^2 }\]</div>

diff --git a/fourier_no_ei-9.py b/fourier_no_ei-9.py
@@ -13,4 +13,4 @@ ax.spines['top'].set_color('none')
 ax.spines['left'].set_smart_bounds(True)
 ax.spines['bottom'].set_smart_bounds(True)
 plt.axis('equal')
-plt.title("$r^1$ vector values as positions on a circle")
+plt.title("Angle ($r^1$) vector values as positions on a circle")
